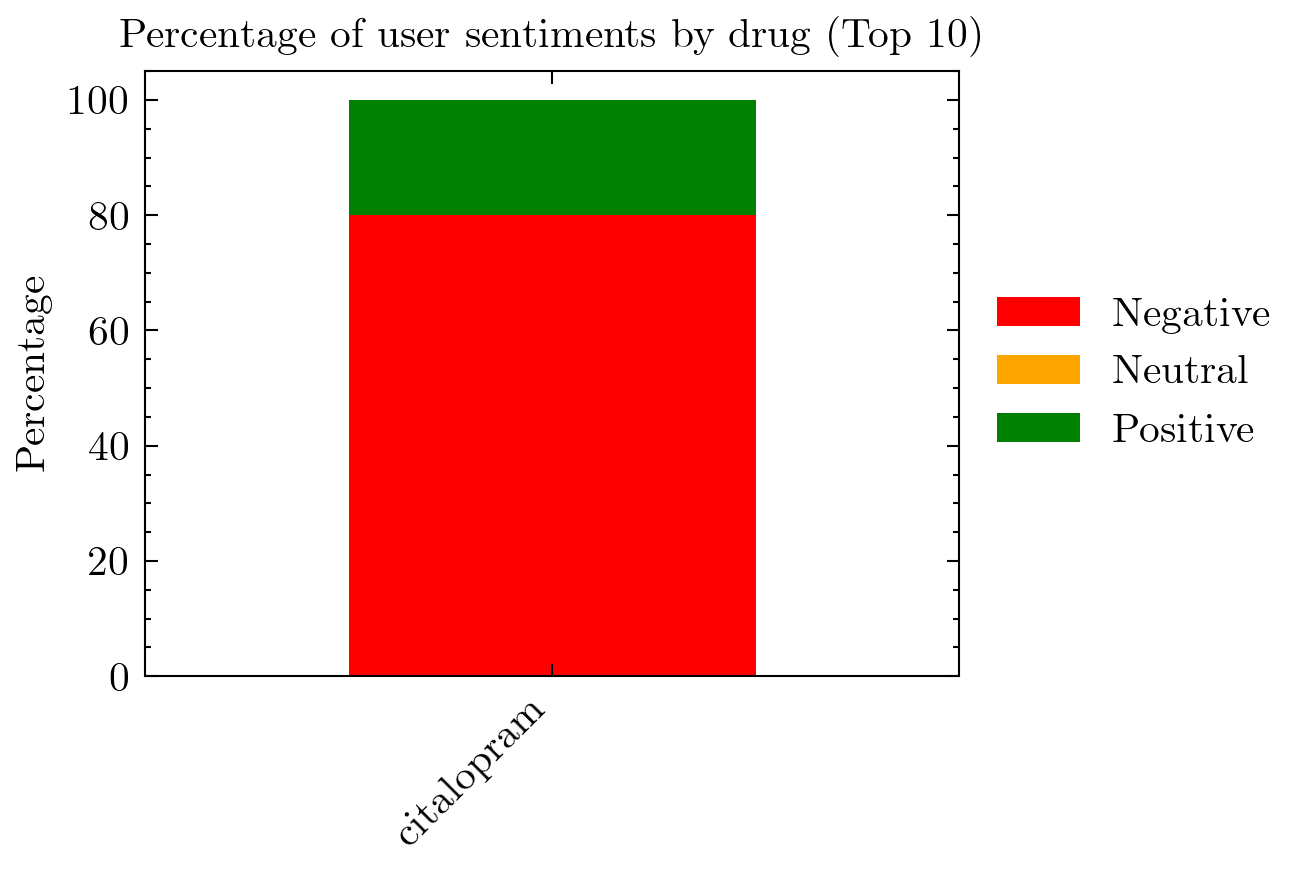
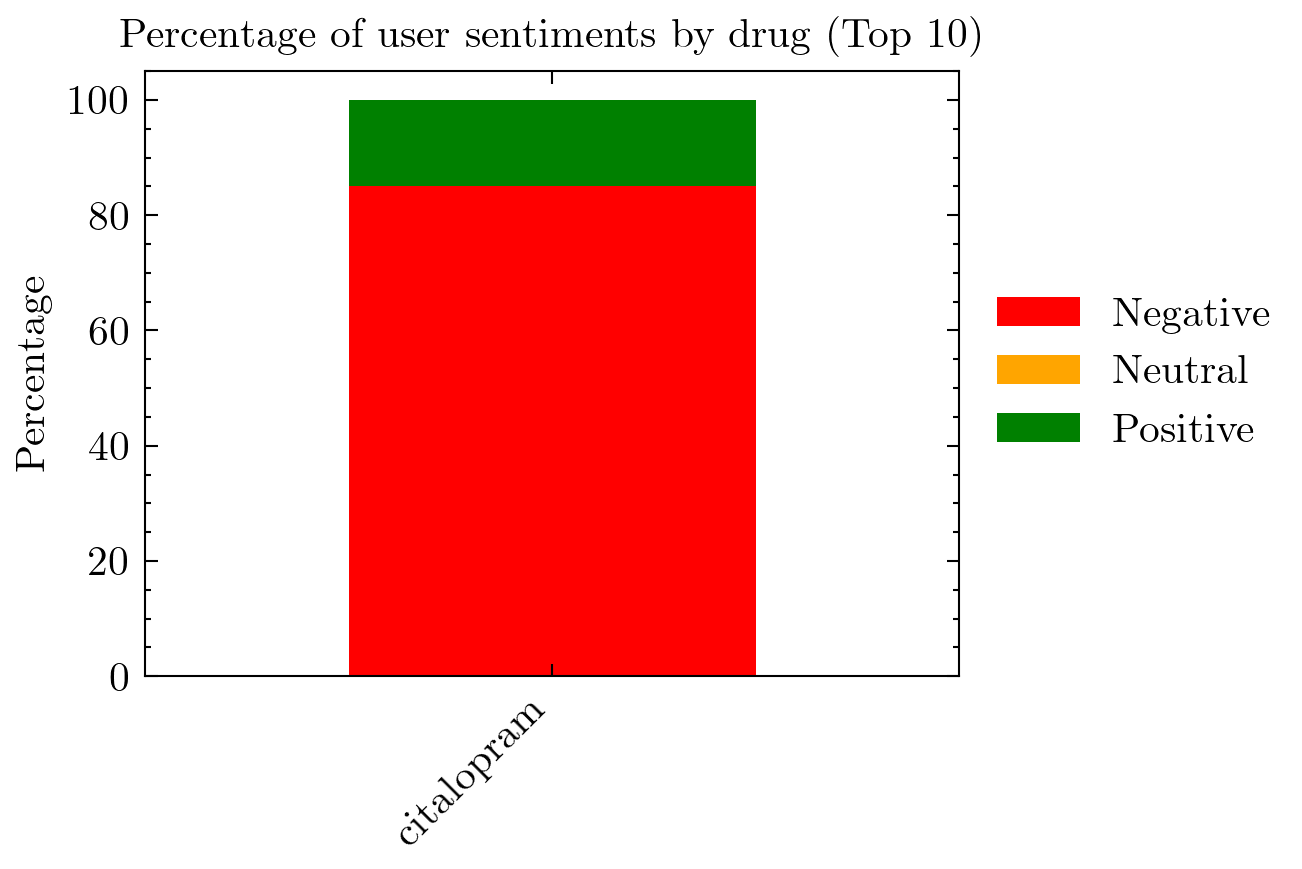
feat: Read data from mongodb and add new figure

Changed region(s): [[0.2458, 0.1864, 0.5837, 0.2486]]

diff --git a/figures/demographics_by_drug.html b/figures/demographics_by_drug.html
@@ -18,60 +18,60 @@
       <th>n</th>
       <th></th>
       <td></td>
-      <td>5</td>
-      <td>5</td>
+      <td>47</td>
+      <td>47</td>
     </tr>
     <tr>
       <th>Age, median [Q1,Q3]</th>
       <th></th>
-      <td>4</td>
-      <td>12.0 [12.0,12.0]</td>
-      <td>12.0 [12.0,12.0]</td>
+      <td>0</td>
+      <td>0.0 [0.0,0.0]</td>
+      <td>0.0 [0.0,0.0]</td>
     </tr>
     <tr>
       <th rowspan="2" valign="top">Gender, n (%)</th>
       <th>Female</th>
       <td></td>
-      <td>4 (80.0)</td>
-      <td>4 (80.0)</td>
+      <td>30 (63.8)</td>
+      <td>30 (63.8)</td>
     </tr>
     <tr>
       <th>Male</th>
       <td></td>
-      <td>1 (20.0)</td>
-      <td>1 (20.0)</td>
+      <td>17 (36.2)</td>
+      <td>17 (36.2)</td>
     </tr>
     <tr>
       <th rowspan="3" valign="top">Duration of Treatment, n (%)</th>
       <th>Less Than One Month</th>
       <td></td>
-      <td>2 (40.0)</td>
-      <td>2 (40.0)</td>
+      <td>20 (42.6)</td>
+      <td>20 (42.6)</td>
     </tr>
     <tr>
       <th>More Than One Year</th>
       <td></td>
-      <td>2 (40.0)</td>
-      <td>2 (40.0)</td>
+      <td>20 (42.6)</td>
+      <td>20 (42.6)</td>
     </tr>
     <tr>
       <th>One To Six Months</th>
       <td></td>
-      <td>1 (20.0)</td>
-      <td>1 (20.0)</td>
+      <td>7 (14.9)</td>
+      <td>7 (14.9)</td>
     </tr>
     <tr>
       <th rowspan="2" valign="top">Sentiment, n (%)</th>
       <th>Negative</th>
       <td></td>
-      <td>4 (80.0)</td>
-      <td>4 (80.0)</td>
+      <td>40 (85.1)</td>
+      <td>40 (85.1)</td>
     </tr>
     <tr>
       <th>Positive</th>
       <td></td>
-      <td>1 (20.0)</td>
-      <td>1 (20.0)</td>
+      <td>7 (14.9)</td>
+      <td>7 (14.9)</td>
     </tr>
   </tbody>
 </table>

diff --git a/figures/demographics_by_sentiment.html b/figures/demographics_by_sentiment.html
@@ -19,53 +19,53 @@
       <th>n</th>
       <th></th>
       <td></td>
-      <td>5</td>
-      <td>4</td>
-      <td>1</td>
+      <td>47</td>
+      <td>40</td>
+      <td>7</td>
     </tr>
     <tr>
       <th>Age, median [Q1,Q3]</th>
       <th></th>
-      <td>4</td>
-      <td>12.0 [12.0,12.0]</td>
-      <td>nan [nan,nan]</td>
-      <td>12.0 [12.0,12.0]</td>
+      <td>0</td>
+      <td>0.0 [0.0,0.0]</td>
+      <td>0.0 [0.0,0.0]</td>
+      <td>0.0 [0.0,0.0]</td>
     </tr>
     <tr>
       <th rowspan="2" valign="top">Gender, n (%)</th>
       <th>Female</th>
       <td></td>
-      <td>4 (80.0)</td>
-      <td>3 (75.0)</td>
-      <td>1 (100.0)</td>
+      <td>30 (63.8)</td>
+      <td>23 (57.5)</td>
+      <td>7 (100.0)</td>
     </tr>
     <tr>
       <th>Male</th>
       <td></td>
-      <td>1 (20.0)</td>
-      <td>1 (25.0)</td>
+      <td>17 (36.2)</td>
+      <td>17 (42.5)</td>
       <td></td>
     </tr>
     <tr>
       <th rowspan="3" valign="top">Duration of Treatment, n (%)</th>
       <th>Less Than One Month</th>
       <td></td>
-      <td>2 (40.0)</td>
-      <td>1 (25.0)</td>
-      <td>1 (100.0)</td>
+      <td>20 (42.6)</td>
+      <td>13 (32.5)</td>
+      <td>7 (100.0)</td>
     </tr>
     <tr>
       <th>More Than One Year</th>
       <td></td>
-      <td>2 (40.0)</td>
-      <td>2 (50.0)</td>
+      <td>20 (42.6)</td>
+      <td>20 (50.0)</td>
       <td></td>
     </tr>
     <tr>
       <th>One To Six Months</th>
       <td></td>
-      <td>1 (20.0)</td>
-      <td>1 (25.0)</td>
+      <td>7 (14.9)</td>
+      <td>7 (17.5)</td>
       <td></td>
     </tr>
   </tbody>

diff --git a/report_generator.py b/report_generator.py
@@ -6,6 +6,8 @@ import tableone
 import matplotlib.pyplot as plt  # type: ignore[import-not-found]
 import scienceplots  # type: ignore[import-not-found]
 
+from mongodb import mongodb_client
+
 plt.style.use("science")
 
 DATA_FILE_PATH = "analyzed_posts.csv"
@@ -13,6 +15,14 @@ DATA_FILE_PATH = "analyzed_posts.csv"
 
 def read_posts_from_csv_file(file_path: str) -> pd.DataFrame:
     return pd.read_csv(file_path)
+
+
+def read_posts_from_mongodb() -> pd.DataFrame:
+    analyses = []
+    for post in mongodb_client.online_drug_surveillance_db.analyzed_posts.find():
+        analyses.append(post["analysis"])
+
+    return pd.DataFrame(analyses)
 
 
 def create_demographics_by_sentiment_table(data: pd.DataFrame) -> None:
@@ -88,6 +98,35 @@ def create_demographics_by_drug_table(data: pd.DataFrame) -> Any:
     table.to_html("figures/demographics_by_drug.html")
 
 
+def create_drug_adverse_effect_count_table(data: pd.DataFrame) -> None:
+    # Convert the list of adverse effects to their counts
+    print(data)
+    data["adverse_effect_count"] = data["adverse_effects"].apply(len)
+
+    # Group the data by drug and calculate the average number of adverse effects per post
+    grouped_data = data.groupby("drug")["adverse_effect_count"].mean().reset_index()
+    grouped_data["adverse_effect_count"] = grouped_data["adverse_effect_count"].round(2)
+
+    # Sort the data by average number of adverse effects in descending order
+    sorted_data = grouped_data.sort_values(by="adverse_effect_count", ascending=False)
+
+    
+    # Create the table
+    table = plt.table(
+        cellText=sorted_data.values,
+        colLabels=["Drug", "Average Adverse Effects per Post"],
+        cellLoc="center",
+        loc="center",
+        
+
+
+    )    # Remove the axis
+    plt.axis("off")
+
+    # Save the table as an image
+    plt.savefig("figures/drug_adverse_effect_count_table.png", dpi=300)
+
+
 def create_sentiment_analysis_comparative_bar_graph(data: pd.DataFrame) -> None:
     # Group the data by drug and sentiment
     grouped_data = data.groupby(["drug", "sentiment"]).size().unstack()
@@ -130,10 +169,13 @@ def create_sentiment_analysis_comparative_bar_graph(data: pd.DataFrame) -> None:
 
 
 def main():
-    data = read_posts_from_csv_file(DATA_FILE_PATH)
-    create_demographics_by_sentiment_table(data)
-    create_demographics_by_drug_table(data)
-    create_sentiment_analysis_comparative_bar_graph(data)
+    # data = read_posts_from_csv_file(DATA_FILE_PATH)
+    data = read_posts_from_mongodb()
+
+    create_drug_adverse_effect_count_table(data)
+    # create_demographics_by_sentiment_table(data)
+    # create_demographics_by_drug_table(data)
+    # create_sentiment_analysis_comparative_bar_graph(data)
 
 
 if __name__ == "__main__":

diff --git a/post_analyzer.py b/post_analyzer.py
@@ -166,8 +166,20 @@ def read_posts_from_csv_file(file_path: str) -> List[Post]:
     return posts
 
 
+def read_posts_from_mongodb() -> List[Post]:
+    posts = []
+    for post in mongodb_client.online_drug_surveillance_db.filtered_posts.find():
+        new_post = Post(
+            title=post["title"],
+            content=post["content"],
+        )
+        posts.append(new_post)
+    return posts
+
+
 if __name__ == "__main__":
-    posts = read_posts_from_csv_file("filtered_posts.csv")
+    # posts = read_posts_from_csv_file("filtered_posts.csv")
+    posts = read_posts_from_mongodb()
     print(f"Total posts to analyze: {len(posts)}")
 
     analyze_posts(posts)
